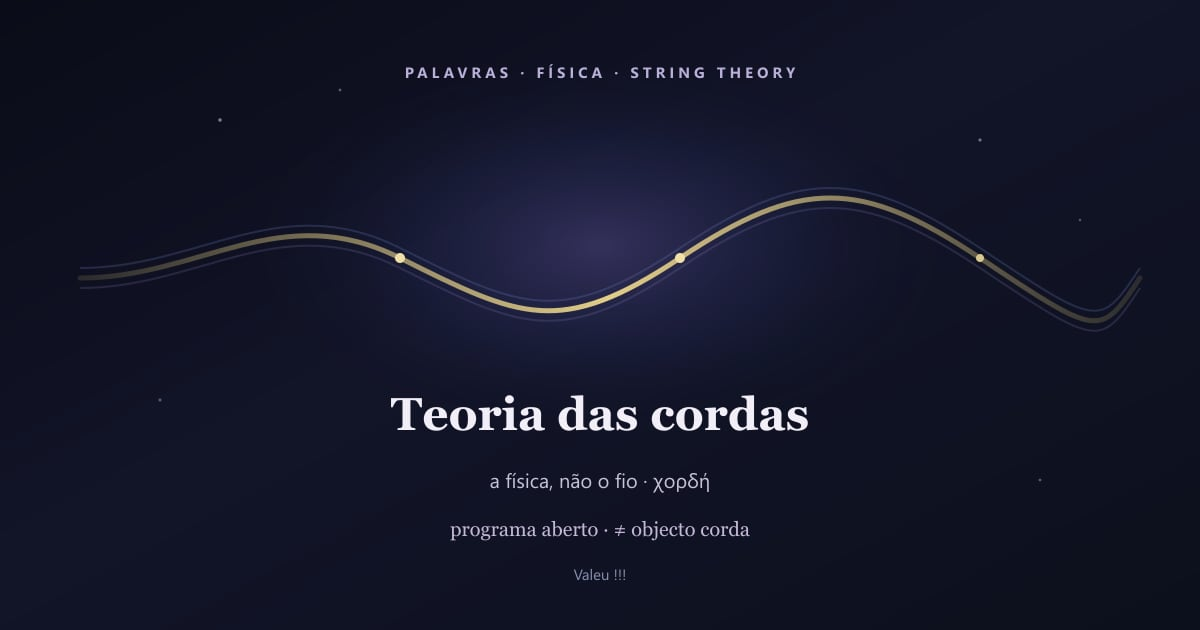
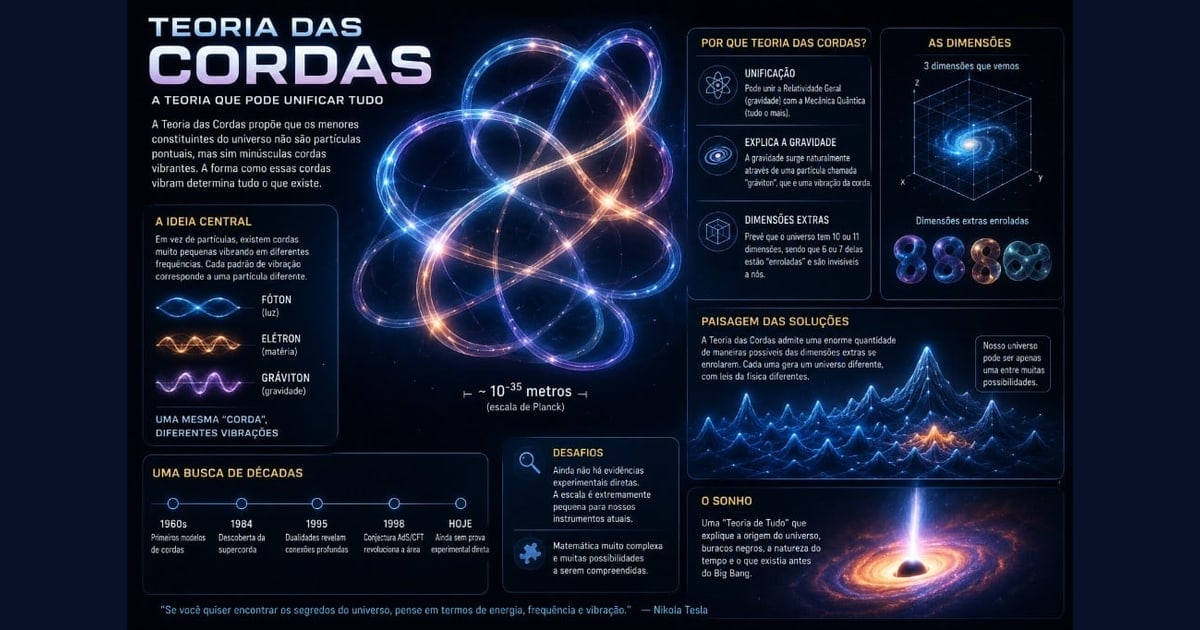
Pôr a infografia na capa da teoria das cordas e destacá-la nos últimos inspecionados.

diff --git a/posts/post-inspecao-palavra-teoria-das-cordas.html b/posts/post-inspecao-palavra-teoria-das-cordas.html
@@ -18,22 +18,21 @@
 <meta name="twitter:description" content="Palavras: «teoria das cordas» — calque de *string theory*; partículas como cordas a vibrar; ≠ objecto corda; programa aberto; Valeu !!!">
 <meta name="twitter:image" content="https://inspetorbudganja.com.br/imagens/inspecoes/teoria-das-cordas-palavra-cover.jpg">
 <link rel="canonical" href="https://inspetorbudganja.com.br/posts/post-inspecao-palavra-teoria-das-cordas.html">
-
+<link rel="icon" href="/imagens/icon-192.v350.png" sizes="192x192" type="image/png">
+<link rel="icon" href="/imagens/favicon-48.v350.png" sizes="48x48" type="image/png">
+<link rel="icon" href="/imagens/favicon-32.v350.png" sizes="32x32" type="image/png">
+<link rel="icon" href="/imagens/favicon-16.v350.png" sizes="16x16" type="image/png">
+<link rel="shortcut icon" href="/favicon.v350.ico" sizes="any">
+<link rel="icon" href="/favicon.v350.svg" type="image/svg+xml">
+<link rel="apple-touch-icon" href="/imagens/apple-touch-icon.v350.png">
+<link rel="manifest" href="/manifest.json">
+<meta name="theme-color" content="#0a2230">
 <meta name="apple-mobile-web-app-capable" content="yes">
 <meta name="apple-mobile-web-app-status-bar-style" content="black-translucent">
 <meta name="apple-mobile-web-app-title" content="BudGanja">
-    <link rel="icon" href="/imagens/favicon-32.v350.png" sizes="32x32" type="image/png">
-    <link rel="icon" href="/imagens/favicon-48.v350.png" sizes="48x48" type="image/png">
-    <link rel="icon" href="/imagens/favicon-16.v350.png" sizes="16x16" type="image/png">
-    <link rel="icon" href="/imagens/icon-192.v350.png" sizes="192x192" type="image/png">
-    <link rel="shortcut icon" href="/favicon.v350.ico" sizes="any">
-    <link rel="icon" href="/favicon.v350.svg" type="image/svg+xml">
-    <link rel="apple-touch-icon" href="/imagens/apple-touch-icon.v350.png">
-    <link rel="manifest" href="/manifest.json?v=350">
-    <meta name="theme-color" content="#0a2230">
-    <link rel="stylesheet" href="/css/style.css?v=350">
+<link rel="stylesheet" href="/css/style.css?v=350">
 <title>Inspeção: Teoria das cordas — a física, não o fio | Inspetor BudGanja</title>
-<script type="application/ld+json">{"@context":"https://schema.org","@type":"Article","headline":"Inspeção: Teoria das cordas — a física, não o fio","description":"Palavras: «teoria das cordas» — calque de *string theory*; partículas como cordas a vibrar; ≠ objecto corda; programa aberto; Valeu !!!","datePublished":"2026-08-22T05:40:00.000Z","image":"https://inspetorbudganja.com.br/imagens/inspecoes/teoria-das-cordas-palavra-cover.jpg","author":{"@type":"Organization","name":"Inspetor BudGanja"}}</script>
+<script type="application/ld+json">{"@context":"https://schema.org","@type":"Article","headline":"Inspeção: Teoria das cordas — a física, não o fio","description":"Palavras: «teoria das cordas» — calque de *string theory*; partículas como cordas a vibrar; ≠ objecto corda; programa aberto; Valeu !!!","datePublished":"2026-08-22T06:00:00.000Z","image":"https://inspetorbudganja.com.br/imagens/inspecoes/teoria-das-cordas-palavra-cover.jpg","author":{"@type":"Organization","name":"Inspetor BudGanja"}}</script>
 </head>
 <body data-page="inspecao" data-post-slug="inspecao-palavra-teoria-das-cordas">
 <div id="site-header"></div>
@@ -58,6 +57,8 @@
 <div class="post-content" data-post-body data-locale="pt-BR" lang="pt-BR"><h2>Escopo</h2>
 <p>Inspeção editorial do sintagma <strong><a href="/posts/post-inspecao-palavra-teoria-das-cordas.html">teoria das cordas</a></strong> — calque português de <em>string theory</em>. É um <strong>programa de investigação</strong> em física teórica: modela o que a física de partículas trata como <strong>pontos</strong> como <strong>cordas unidimensionais a vibrar</strong>. Pedido de campo: <em>teoria das cordas</em> ao lado do objecto <a href="/posts/post-inspecao-palavra-corda.html">corda</a>. O lab <strong>separa</strong>: o fio que se ata no cultivo não é o objecto desta ficha.</p>
 <blockquote><p><strong>Nota metodológica:</strong> auditoria independente. Fontes: <a href="https://pt.wikipedia.org/wiki/Teoria_das_cordas">Wikipédia · Teoria das cordas</a>, <a href="https://en.wikipedia.org/wiki/String_theory">String theory</a>. <strong>Ficha ≠ curso de física, ≠ prova experimental, ≠ manual de amarração.</strong> A metáfora musical (χορδή) é o <strong>nome</strong>; a matemática é o <strong>ofício</strong>. Sem afiliação a institutos nem a divulgação mística. Fecho: <a href="/posts/post-inspecao-palavra-valeu.html">Valeu !!!</a>.</p></blockquote>
+<p><img src="/imagens/inspecoes/teoria-das-cordas-infografico.jpg" alt="Infografia de divulgação — Teoria das cordas" loading="lazy"></p>
+<p><em>Infografia de divulgação (mapa popular). Útil para o <strong>nome</strong> das peças; <strong>não</strong> é prova. A citação de Tesla no rodapé é atribuição popular — o lab já recusou o slogan «tudo é vibração». Sem afiliação ao autor da arte.</em></p>
 <h2>1. Objecto inspecionado</h2>
 <table><thead><tr><th>Campo</th><th>Valor</th></tr></thead><tbody><tr><td>Sintagma</td><td><strong>teoria das cordas</strong></td></tr><tr><td>Classe</td><td>Locução substantiva (física)</td></tr><tr><td>Calque</td><td>EN <em>string theory</em> → PT <em>teoria das cordas</em> / <em>teoria de cordas</em></td></tr><tr><td>Étimo das peças</td><td><em>teoria</em> ← gr. θεωρία <em>theōría</em> «contemplação / inspeção»; <em>corda</em> ← lat. <em>chorda</em> ← gr. χορδή — confiança: <strong>alta</strong> nas peças; o composto é tradução de ofício</td></tr><tr><td>Tipo BudGanja</td><td>Palavra-conceito — física teórica × metáfora musical × ≠ objecto</td></tr><tr><td>Não é</td><td><a href="/posts/post-inspecao-palavra-corda.html">corda</a> (fio) · <a href="/posts/post-inspecao-palavra-no.html">nó</a> (laço) · partitura · dogma</td></tr><tr><td>Elos lab</td><td><a href="/posts/post-inspecao-palavra-tonos.html">tónos</a> · <a href="/posts/post-inspecao-palavra-orfeu.html">orfeu</a> · <a href="/posts/post-inspecao-palavra-pattern.html">pattern</a> · <a href="/posts/post-inspecao-palavra-etimologia.html">etimologia</a> · <a href="/posts/post-inspecao-palavra-verdade.html">verdade</a></td></tr><tr><td>Fonte</td><td><a href="https://pt.wikipedia.org/wiki/Teoria_das_cordas">Teoria das cordas</a></td></tr><tr><td>Data</td><td>2026-08-22</td></tr></tbody></table>
 <p><strong>O que é o objecto:</strong> um <strong>mapa matemático</strong> que tenta ler partículas e gravidade no mesmo vocabulário — a <strong>vibração</strong> de uma corda, não o cabo do <a href="/cultivo/">cultivo</a>.</p>
@@ -71,7 +72,7 @@
 <table><thead><tr><th>Marco</th><th>Leitura</th></tr></thead><tbody><tr><td><strong>1968</strong></td><td>Gabriele Veneziano — amplitude dual (hádrones); ainda não se chamava «teoria das cordas»</td></tr><tr><td><strong>c. 1970</strong></td><td>Nambu, Susskind, Nielsen — a amplitude como <strong>corda</strong> relativista</td></tr><tr><td><strong>1974</strong></td><td>Scherk & Schwarz — a corda também descreve <strong>gravidade</strong> (gravitão)</td></tr><tr><td><strong>1984</strong></td><td>Green & Schwarz — cancelamento de anomalias; 1.ª revolução das supercordas</td></tr><tr><td><strong>1995</strong></td><td>Edward Witten — <strong>M-teoria</strong> (2.ª revolução); as cinco supercordas + 11D</td></tr><tr><td><strong>séc. XXI</strong></td><td>Landscape, AdS/CFT (Maldacena), crítica e defesa públicas — o debate continua</td></tr></tbody></table>
 <p>A <a href="/posts/post-inspecao-palavra-lingua-portuguesa.html">língua portuguesa</a> recebeu o nome pronto: <em>string</em> → <em>corda</em>. O calque é fiel à metáfora, não à prova — ofício de <a href="/posts/post-inspecao-palavra-etimologia.html">etimologia</a>.</p>
 <h2>5. Armadilhas de divulgação</h2>
-<table><thead><tr><th>Slogan</th><th>Correção lab</th></tr></thead><tbody><tr><td>«A teoria das cordas está provada»</td><td><strong>Não.</strong> É investigação activa; falta teste decisivo à nossa escala</td></tr><tr><td>«A teoria das cordas é lixo»</td><td>Também <strong>não</strong> é o veredicto desta ficha — é matemática com objectivo físico, com críticas sérias (testabilidade, landscape)</td></tr><tr><td>«Tudo é vibração, logo é cordas»</td><td>Confunde <strong>metáfora</strong> com <strong>modelo</strong>. <a href="/posts/post-inspecao-palavra-fogo.html">Fogo</a>, <a href="/posts/post-inspecao-palavra-luz.html">luz</a>, <a href="/posts/post-inspecao-palavra-sol.html">sol</a> e <a href="/posts/post-inspecao-palavra-eletrizante.html">eletrizante</a> no lab são ofício, não prova de supercorda</td></tr><tr><td>«Dimensões extra = planos místicos»</td><td>Compactação geométrica ≠ espiritualismo. <a href="/posts/post-inspecao-filme-the-matrix.html">The Matrix</a> é parábola de escolha — <strong>não</strong> compactação de Calabi–Yau</td></tr><tr><td>«É a mesma <a href="/posts/post-inspecao-palavra-corda.html">corda</a> do objecto»</td><td>Homónimos de raiz; <strong>ofícios distintos</strong></td></tr><tr><td>«Teoria dos nós»</td><td>Topologia do <a href="/posts/post-inspecao-palavra-no.html">nó</a> — <strong>outro</strong> mapa</td></tr></tbody></table>
+<table><thead><tr><th>Slogan</th><th>Correção lab</th></tr></thead><tbody><tr><td>«A teoria das cordas está provada»</td><td><strong>Não.</strong> É investigação activa; falta teste decisivo à nossa escala</td></tr><tr><td>«A teoria das cordas é lixo»</td><td>Também <strong>não</strong> é o veredicto desta ficha — é matemática com objectivo físico, com críticas sérias (testabilidade, landscape)</td></tr><tr><td>«Tudo é vibração, logo é cordas»</td><td>Confunde <strong>metáfora</strong> com <strong>modelo</strong>. <a href="/posts/post-inspecao-palavra-fogo.html">Fogo</a>, <a href="/posts/post-inspecao-palavra-luz.html">luz</a>, <a href="/posts/post-inspecao-palavra-sol.html">sol</a> e <a href="/posts/post-inspecao-palavra-eletrizante.html">eletrizante</a> no lab são ofício, não prova de supercorda</td></tr><tr><td>Infografia de divulgação (capa)</td><td>Mapa popular das peças; <strong>não</strong> fecha o caso empírico. Tesla no rodapé ≠ evidência de supercordas</td></tr><tr><td>«Dimensões extra = planos místicos»</td><td>Compactação geométrica ≠ espiritualismo. <a href="/posts/post-inspecao-filme-the-matrix.html">The Matrix</a> é parábola de escolha — <strong>não</strong> compactação de Calabi–Yau</td></tr><tr><td>«É a mesma <a href="/posts/post-inspecao-palavra-corda.html">corda</a> do objecto»</td><td>Homónimos de raiz; <strong>ofícios distintos</strong></td></tr><tr><td>«Teoria dos nós»</td><td>Topologia do <a href="/posts/post-inspecao-palavra-no.html">nó</a> — <strong>outro</strong> mapa</td></tr></tbody></table>
 <p><strong>H-risco:</strong> o <a href="/posts/post-inspecao-palavra-risco.html">risco</a> aqui é <strong>autoridade emprestada</strong> — usar o nome da física para fechar conversa no cultivo, na fé ou no marketing.</p>
 <h2>6. Rede BudGanja (só fichas existentes)</h2>
 <table><thead><tr><th>Ficha</th><th>Relação</th></tr></thead><tbody><tr><td><a href="/posts/post-inspecao-palavra-corda.html">Corda</a></td><td>O <strong>fio</strong> das mãos; irmã lexical, não o objecto teórico</td></tr><tr><td><a href="/posts/post-inspecao-palavra-cinta.html">Cinta</a> · <a href="/posts/post-inspecao-palavra-desatar.html">desatar</a> · <a href="/posts/post-inspecao-palavra-no.html">nó</a></td><td>Cluster do objecto — laço, faixa, soltar; <strong>não</strong> compactação</td></tr><tr><td><a href="/posts/post-inspecao-palavra-tonos.html">Tónos</a></td><td>Grego τόνος — <strong>tensão / tom</strong> da corda; χορδή é o fio, <em>tónos</em> é o aperto que faz soar</td></tr><tr><td><a href="/posts/post-inspecao-palavra-afinar.html">Afinar</a></td><td>O <strong>gesto</strong> na cravelha: apertar a corda musical até o tom — ofício das mãos, não supercorda</td></tr><tr><td><a href="/posts/post-inspecao-palavra-orfeu.html">Orfeu</a></td><td>A <strong>lira</strong> — metáfora musical que a física emprestou; <a href="/radio/">Rádio</a> toca, não prova supercorda</td></tr><tr><td><a href="/posts/post-inspecao-palavra-etimologia.html">Etimologia</a></td><td>O calque <em>string theory</em> → <em>teoria das cordas</em></td></tr><tr><td><a href="/posts/post-inspecao-palavra-polimorfismo.html">Polimorfismo</a></td><td>Analogia: <strong>mesma</strong> corda, <strong>vários</strong> modos/partículas — outro ofício (bio/código)</td></tr><tr><td><a href="/posts/post-inspecao-palavra-pattern.html">Pattern</a></td><td>A teoria <strong>é</strong> um pattern matemático — molde, não dogma</td></tr><tr><td><a href="/posts/post-inspecao-palavra-tempo.html">Tempo</a></td><td>Espaço-tempo; kairós do lab ≠ dimensão compacta</td></tr><tr><td><a href="/posts/post-inspecao-palavra-sol.html">Sol</a> · <a href="/posts/post-inspecao-palavra-luz.html">luz</a> · <a href="/posts/post-inspecao-palavra-fogo.html">fogo</a> · <a href="/posts/post-inspecao-palavra-eletrizante.html">eletrizante</a></td><td>Fenómenos do mundo (fotão, calor, carga); a teoria <strong>pretende</strong> incluí-los — sem slogan</td></tr><tr><td><a href="/posts/post-inspecao-expressao-toda-crianca-nasce-cientista.html">Toda criança nasce cientista</a></td><td>Método: perguntar o que está <strong>testado</strong></td></tr><tr><td><a href="/posts/post-inspecao-canal-manual-do-mundo.html">Manual do Mundo</a></td><td>Divulgação de ciência com ofício — distinto de misticismo de vibração</td></tr><tr><td><a href="/posts/post-inspecao-filme-the-matrix.html">The Matrix</a></td><td>Camadas / escolha no pop — <strong>não</strong> são as 10D da supercorda</td></tr><tr><td><a href="/posts/post-inspecao-palavra-verdade.html">Verdade</a> · <a href="/posts/post-inspecao-palavra-gesto.html">gesto</a></td><td>Distinguir modelo, metáfora e facto</td></tr><tr><td><a href="/posts/post-inspecao-palavra-lingua-portuguesa.html">Língua portuguesa</a> · <a href="/guia/palavras.html">Guia</a></td><td>O calque <em>teoria das cordas</em></td></tr><tr><td><a href="/posts/post-inspecao-palavra-valeu.html">Valeu !!!</a></td><td>Fechar com o mapa certo: nome grande ≠ prova grande</td></tr></tbody></table>
@@ -88,6 +89,8 @@
 <div class="post-content" data-post-body data-locale="en" lang="en" hidden><h2>Scope</h2>
 <p>Inspection of Portuguese <strong>teoria das cordas</strong> — calque of English <em>string theory</em>. A <strong>research program</strong> in theoretical physics: particles as <strong>vibrating one-dimensional strings</strong>, not points. Distinct from the <a href="/posts/post-inspecao-palavra-corda.html">corda</a> object (rope). Close: <a href="/posts/post-inspecao-palavra-valeu.html">Valeu !!!</a>.</p>
 <blockquote><p>Independent audit. Sources: <a href="https://en.wikipedia.org/wiki/String_theory">String theory</a>, <a href="https://pt.wikipedia.org/wiki/Teoria_das_cordas">PT</a>. <strong>Not a physics course, not experimental proof, not a tying manual.</strong> The musical metaphor (χορδή) is the <strong>name</strong>; the math is the <strong>craft</strong>.</p></blockquote>
+<p><img src="/imagens/inspecoes/teoria-das-cordas-infografico.jpg" alt="Divulgation infographic — String theory" loading="lazy"></p>
+<p><em>Divulgation infographic (popular map). Useful for the <strong>names</strong>; <strong>not</strong> proof. The Tesla line in the footer is a popular attribution — not evidence of superstrings.</em></p>
 <h2>1. Object</h2>
 <table><thead><tr><th>Field</th><th>Value</th></tr></thead><tbody><tr><td>Phrase</td><td><strong>teoria das cordas</strong> / <em>string theory</em></td></tr><tr><td>Lab type</td><td>Concept — theoretical physics × musical metaphor × ≠ rope</td></tr><tr><td>Not</td><td><a href="/posts/post-inspecao-palavra-corda.html">corda</a> (rope) · <a href="/posts/post-inspecao-palavra-no.html">nó</a> (knot) · mysticism</td></tr><tr><td>Status</td><td>Active program; <strong>no</strong> unique test at accessible energy</td></tr><tr><td>Date</td><td>2026-08-22</td></tr></tbody></table>
 <p><strong>Craft reading:</strong> a rich <strong>map</strong>, still <strong>open</strong>. Extra dimensions and supersymmetry belong to the formalism — they are not cards in the <a href="/objetos/">Objects</a> catalog.</p>
@@ -97,6 +100,8 @@
 <div class="post-content" data-post-body data-locale="es" lang="es" hidden><h2>Alcance</h2>
 <p>Inspección de <strong>teoria das cordas</strong> — calco de <em>string theory</em>. Un <strong>programa de investigación</strong> en física teórica: partículas como <strong>cuerdas unidimensionales que vibran</strong>, no puntos. Distinta del objeto <a href="/posts/post-inspecao-palavra-corda.html">corda</a> (cuerda). Cierre: <a href="/posts/post-inspecao-palavra-valeu.html">¡Valeu !!!</a>.</p>
 <blockquote><p>Auditoría independiente. Fuentes: <a href="https://pt.wikipedia.org/wiki/Teoria_das_cordas">Teoría de cuerdas</a>, <a href="https://en.wikipedia.org/wiki/String_theory">EN</a>. <strong>No es curso de física ni prueba experimental.</strong> La metáfora musical (χορδή) es el <strong>nombre</strong>; la matemática es el <strong>oficio</strong>.</p></blockquote>
+<p><img src="/imagens/inspecoes/teoria-das-cordas-infografico.jpg" alt="Infografía de divulgación — Teoría de cuerdas" loading="lazy"></p>
+<p><em>Infografía de divulgación (mapa popular). Útil para los <strong>nombres</strong>; <strong>no</strong> es prueba. La cita de Tesla al pie es atribución popular — no evidencia de supercuerdas.</em></p>
 <h2>1. Objeto</h2>
 <table><thead><tr><th>Campo</th><th>Valor</th></tr></thead><tbody><tr><td>Sintagma</td><td><strong>teoria das cordas</strong> / <em>string theory</em></td></tr><tr><td>Tipo lab</td><td>Concepto — física teórica × metáfora musical × ≠ cuerda-objeto</td></tr><tr><td>No es</td><td><a href="/posts/post-inspecao-palavra-corda.html">corda</a> · <a href="/posts/post-inspecao-palavra-no.html">nó</a> · misticismo</td></tr><tr><td>Estado</td><td>Programa activo; <strong>sin</strong> test único a energía accesible</td></tr><tr><td>Fecha</td><td>2026-08-22</td></tr></tbody></table>
 <p><strong>Lectura de oficio:</strong> mapa <strong>rico</strong> y <strong>abierto</strong>. Dimensiones extra y supersimetría son del formalismo — no fichas del catálogo <a href="/objetos/">Objetos</a>.</p>
@@ -107,7 +112,6 @@
 <div id="site-footer"></div>
 <script src="/js/app-version-check.js?v=350"></script>
 <script src="/js/i18n-data.js?v=350"></script>
-    <script src="/js/page-translations-data.js?v=350"></script>
 <script src="/js/i18n.js?v=350"></script>
 <script src="/js/ferramentas-nav-data.js?v=350"></script>
 <script src="/js/layout.js?v=350"></script>

diff --git a/scripts/generate-teoria-das-cordas-cover.js b/scripts/generate-teoria-das-cordas-cover.js
@@ -1,56 +1,61 @@
 'use strict';
 
-/** Capa 1200×630 — teoria das cordas (Palavras). */
+/** Capa 1200×630 + infografia completa — teoria das cordas (Palavras). */
 const fs = require('fs');
 const path = require('path');
 const { ROOT } = require('../lib/paths.js');
 
+const SRC_CANDIDATES = [
+  path.join(ROOT, 'imagens/inspecoes/teoria-das-cordas-infografico.jpg'),
+  path.join(
+    process.env.USERPROFILE || '',
+    '.cursor/projects/c-Users-tiago-Desktop-ProjectBudGanja/assets',
+    'c__Users_tiago_AppData_Roaming_Cursor_User_workspaceStorage_bd30f2c0ab7944756d38bfd6d705cd6e_images_teoriadascordas-6c174c78-51dc-4aec-8f16-01b61609b3f2.jpg'
+  )
+];
+
+function findSrc() {
+  for (const p of SRC_CANDIDATES) {
+    if (fs.existsSync(p)) return p;
+  }
+  throw new Error('Infografia fonte não encontrada');
+}
+
 async function main() {
   const sharp = require('sharp');
-  const OUT = path.join(ROOT, 'imagens/inspecoes/teoria-das-cordas-palavra-cover.jpg');
-  fs.mkdirSync(path.dirname(OUT), { recursive: true });
+  const src = findSrc();
+  const dir = path.join(ROOT, 'imagens/inspecoes');
+  fs.mkdirSync(dir, { recursive: true });
 
-  const bg = Buffer.from(`<svg width="1200" height="630" viewBox="0 0 1200 630" xmlns="http://www.w3.org/2000/svg">
-  <defs>
-    <linearGradient id="g" x1="0" y1="0" x2="1" y2="1">
-      <stop offset="0%" stop-color="#0a0c18"/>
-      <stop offset="45%" stop-color="#121428"/>
-      <stop offset="100%" stop-color="#0c101c"/>
-    </linearGradient>
-    <radialGradient id="glow" cx="50%" cy="42%" r="48%">
-      <stop offset="0%" stop-color="rgba(140,120,220,0.28)"/>
-      <stop offset="50%" stop-color="rgba(80,90,180,0.12)"/>
-      <stop offset="100%" stop-color="rgba(10,12,24,0)"/>
-    </radialGradient>
-    <linearGradient id="str" x1="0" y1="0" x2="1" y2="0">
-      <stop offset="0%" stop-color="rgba(210,190,120,0.15)"/>
-      <stop offset="50%" stop-color="rgba(236,214,140,0.95)"/>
-      <stop offset="100%" stop-color="rgba(210,190,120,0.15)"/>
-    </linearGradient>
-  </defs>
-  <rect width="1200" height="630" fill="url(#g)"/>
-  <ellipse cx="600" cy="280" rx="380" ry="210" fill="url(#glow)"/>
-  <circle cx="220" cy="120" r="1.8" fill="rgba(200,210,240,0.55)"/>
-  <circle cx="340" cy="90" r="1.4" fill="rgba(200,210,240,0.4)"/>
-  <circle cx="980" cy="140" r="1.6" fill="rgba(200,210,240,0.5)"/>
-  <circle cx="1080" cy="220" r="1.3" fill="rgba(200,210,240,0.35)"/>
-  <circle cx="160" cy="400" r="1.5" fill="rgba(200,210,240,0.4)"/>
-  <circle cx="1040" cy="480" r="1.4" fill="rgba(200,210,240,0.4)"/>
-  <path d="M80 268 C200 268, 280 188, 400 248 S560 328, 680 248 S860 168, 980 248 S1100 328, 1140 268" fill="none" stroke="rgba(120,140,210,0.22)" stroke-width="2"/>
-  <path d="M80 288 C200 288, 280 208, 400 268 S560 348, 680 268 S860 188, 980 268 S1100 348, 1140 288" fill="none" stroke="rgba(160,140,220,0.18)" stroke-width="2"/>
-  <path d="M80 278 C200 278, 280 198, 400 258 S560 338, 680 258 S860 178, 980 258 S1100 338, 1140 278" fill="none" stroke="url(#str)" stroke-width="5" stroke-linecap="round"/>
-  <circle cx="400" cy="258" r="5" fill="#f0e0a8"/>
-  <circle cx="680" cy="258" r="5" fill="#f0e0a8"/>
-  <circle cx="980" cy="258" r="4" fill="#d8c890"/>
-  <text x="600" y="78" text-anchor="middle" font-family="Segoe UI, Arial, sans-serif" font-size="15" font-weight="700" fill="#b8b0d8" letter-spacing="4">PALAVRAS · FÍSICA · STRING THEORY</text>
-  <text x="600" y="430" text-anchor="middle" font-family="Georgia, Times New Roman, serif" font-size="46" font-weight="700" fill="#f2eef8">Teoria das cordas</text>
-  <text x="600" y="488" text-anchor="middle" font-family="Segoe UI, Arial, sans-serif" font-size="20" fill="rgba(220,214,236,0.9)">a física, não o fio · χορδή</text>
-  <text x="600" y="536" text-anchor="middle" font-family="Georgia, Times New Roman, serif" font-size="20" fill="#c4b8d8">programa aberto · ≠ objecto corda</text>
-  <text x="600" y="580" text-anchor="middle" font-family="Segoe UI, Arial, sans-serif" font-size="15" fill="#8890b0">Valeu !!!</text>
-</svg>`);
+  const INFO = path.join(dir, 'teoria-das-cordas-infografico.jpg');
+  const COVER = path.join(dir, 'teoria-das-cordas-palavra-cover.jpg');
 
-  await sharp(bg).jpeg({ quality: 84, mozjpeg: true }).toFile(OUT);
-  console.log('OK', path.relative(ROOT, OUT), Math.round(fs.statSync(OUT).size / 1024) + 'KB');
+  await sharp(src)
+    .rotate()
+    .resize({ width: 1600, withoutEnlargement: true })
+    .jpeg({ quality: 84, mozjpeg: true })
+    .toFile(INFO + '.tmp');
+  fs.renameSync(INFO + '.tmp', INFO);
+
+  const meta = await sharp(INFO).metadata();
+  const bg = { r: 7, g: 18, b: 40, alpha: 1 };
+  await sharp({
+    create: { width: 1200, height: 630, channels: 3, background: bg }
+  })
+    .composite([
+      {
+        input: await sharp(INFO)
+          .resize({ width: 1200, height: 630, fit: 'contain', background: bg })
+          .jpeg({ quality: 86, mozjpeg: true })
+          .toBuffer()
+      }
+    ])
+    .jpeg({ quality: 86, mozjpeg: true })
+    .toFile(COVER);
+
+  const kb = (p) => Math.round(fs.statSync(p).size / 1024) + 'KB';
+  console.log('OK infografico', path.relative(ROOT, INFO), kb(INFO), `${meta.width}×${meta.height}`);
+  console.log('OK cover', path.relative(ROOT, COVER), kb(COVER));
 }
 
 main().catch((e) => {

diff --git a/lib/teoria-das-cordas-inspecao-post.js b/lib/teoria-das-cordas-inspecao-post.js
@@ -11,6 +11,7 @@ const path = require('path');
 const { palavraPost: makePalavra } = require('./palavras-inspecoes-posts.js');
 
 const COVER = '/imagens/inspecoes/teoria-das-cordas-palavra-cover.jpg';
+const INFOGRAFICO = '/imagens/inspecoes/teoria-das-cordas-infografico.jpg';
 const WIKI = 'https://pt.wikipedia.org/wiki/Teoria_das_cordas';
 const WIKI_EN = 'https://en.wikipedia.org/wiki/String_theory';
 
@@ -63,6 +64,10 @@ function buildTeoriaDasCordasBodies() {
 Inspeção editorial do sintagma **[teoria das cordas](${self})** — calque português de *string theory*. É um **programa de investigação** em física teórica: modela o que a física de partículas trata como **pontos** como **cordas unidimensionais a vibrar**. Pedido de campo: *teoria das cordas* ao lado do objecto [corda](${corda}). O lab **separa**: o fio que se ata no cultivo não é o objecto desta ficha.
 
 > **Nota metodológica:** auditoria independente. Fontes: [Wikipédia · Teoria das cordas](${WIKI}), [String theory](${WIKI_EN}). **Ficha ≠ curso de física, ≠ prova experimental, ≠ manual de amarração.** A metáfora musical (χορδή) é o **nome**; a matemática é o **ofício**. Sem afiliação a institutos nem a divulgação mística. Fecho: [Valeu !!!](${mantra}).
+
+![Infografia de divulgação — Teoria das cordas](${INFOGRAFICO})
+
+*Infografia de divulgação (mapa popular). Útil para o **nome** das peças; **não** é prova. A citação de Tesla no rodapé é atribuição popular — o lab já recusou o slogan «tudo é vibração». Sem afiliação ao autor da arte.*
 
 ## 1. Objecto inspecionado
 
@@ -126,6 +131,7 @@ A [língua portuguesa](${lingua}) recebeu o nome pronto: *string* → *corda*. O
 | «A teoria das cordas está provada» | **Não.** É investigação activa; falta teste decisivo à nossa escala |
 | «A teoria das cordas é lixo» | Também **não** é o veredicto desta ficha — é matemática com objectivo físico, com críticas sérias (testabilidade, landscape) |
 | «Tudo é vibração, logo é cordas» | Confunde **metáfora** com **modelo**. [Fogo](${fogo}), [luz](${luz}), [sol](${sol}) e [eletrizante](${eletrizante}) no lab são ofício, não prova de supercorda |
+| Infografia de divulgação (capa) | Mapa popular das peças; **não** fecha o caso empírico. Tesla no rodapé ≠ evidência de supercordas |
 | «Dimensões extra = planos místicos» | Compactação geométrica ≠ espiritualismo. [The Matrix](${matrix}) é parábola de escolha — **não** compactação de Calabi–Yau |
 | «É a mesma [corda](${corda}) do objecto» | Homónimos de raiz; **ofícios distintos** |
 | «Teoria dos nós» | Topologia do [nó](${no}) — **outro** mapa |
@@ -192,6 +198,10 @@ Inspection of Portuguese **teoria das cordas** — calque of English *string the
 
 > Independent audit. Sources: [String theory](${WIKI_EN}), [PT](${WIKI}). **Not a physics course, not experimental proof, not a tying manual.** The musical metaphor (χορδή) is the **name**; the math is the **craft**.
 
+![Divulgation infographic — String theory](${INFOGRAFICO})
+
+*Divulgation infographic (popular map). Useful for the **names**; **not** proof. The Tesla line in the footer is a popular attribution — not evidence of superstrings.*
+
 ## 1. Object
 
 | Field | Value |
@@ -216,6 +226,10 @@ Inspection of Portuguese **teoria das cordas** — calque of English *string the
 Inspección de **teoria das cordas** — calco de *string theory*. Un **programa de investigación** en física teórica: partículas como **cuerdas unidimensionales que vibran**, no puntos. Distinta del objeto [corda](${corda}) (cuerda). Cierre: [¡Valeu !!!](${mantra}).
 
 > Auditoría independiente. Fuentes: [Teoría de cuerdas](${WIKI}), [EN](${WIKI_EN}). **No es curso de física ni prueba experimental.** La metáfora musical (χορδή) es el **nombre**; la matemática es el **oficio**.
+
+![Infografía de divulgación — Teoría de cuerdas](${INFOGRAFICO})
+
+*Infografía de divulgación (mapa popular). Útil para los **nombres**; **no** es prueba. La cita de Tesla al pie es atribución popular — no evidencia de supercuerdas.*
 
 ## 1. Objeto
 
@@ -255,7 +269,7 @@ function buildTeoriaDasCordasPost(seriesOrder) {
     excerptEs:
       'Palabras: «teoria das cordas» — calco de *string theory*; partículas como cuerdas que vibran; ≠ objeto cuerda; programa abierto; ¡Valeu !!!',
     slug: 'inspecao-palavra-teoria-das-cordas',
-    date: '2026-08-22T05:40:00.000Z',
+    date: '2026-08-22T06:00:00.000Z',
     seriesOrder: order,
     seriesLabel: 'Teoria das cordas · palavra',
     coverImage: COVER,

diff --git a/lib/merge-guia-inspecoes.js b/lib/merge-guia-inspecoes.js
@@ -48,12 +48,20 @@ function isRemovedInspecao(post) {
   return false;
 }
 
-const HOME_PINNED_INSPECAO_SLUG = 'inspecao-arte-bom-dia-inverno';
+const HOME_PINNED_INSPECAO_SLUGS = [
+  'inspecao-palavra-teoria-das-cordas',
+  'inspecao-arte-bom-dia-inverno'
+];
+
+function inspecaoPinRank(slug) {
+  const i = HOME_PINNED_INSPECAO_SLUGS.indexOf(slug);
+  return i === -1 ? 99 : i;
+}
 
 function sortPublicPosts(list) {
   return list.slice().sort((a, b) => {
-    const aPin = a && a.slug === HOME_PINNED_INSPECAO_SLUG ? 0 : 1;
-    const bPin = b && b.slug === HOME_PINNED_INSPECAO_SLUG ? 0 : 1;
+    const aPin = inspecaoPinRank(a && a.slug);
+    const bPin = inspecaoPinRank(b && b.slug);
     if (aPin !== bPin) return aPin - bPin;
     const soA = a.seriesOrder != null ? Number(a.seriesOrder) : 999;
     const soB = b.seriesOrder != null ? Number(b.seriesOrder) : 999;
@@ -115,6 +123,7 @@ function mergeGuiaInspecoesPosts(posts) {
 module.exports = {
   mergeGuiaInspecoesPosts,
   sortPublicPosts,
+  HOME_PINNED_INSPECAO_SLUGS,
   getBuiltinInspecoesPosts,
   REMOVED_INSPECAO_SLUGS,
   REMOVED_INSPECAO_SERIES,

diff --git a/scripts/test-lib-unit.js b/scripts/test-lib-unit.js
@@ -79,6 +79,19 @@ assert('merge mantém MovReCam', merged.some((p) => p.slug === 'inspecao-canal-m
 assert('merge não duplica slugs', merged.length === new Set(merged.map((p) => p.slug)).size);
 
 const inspecoes = sortPublicPosts(merged.filter((p) => p.category === 'inspecao'));
+const pinnedOrder = sortPublicPosts([
+  { slug: 'inspecao-canal-movrecam', category: 'inspecao', seriesOrder: 1, date: '2026-01-01' },
+  { slug: 'inspecao-arte-bom-dia-inverno', category: 'inspecao', seriesOrder: 2, date: '2026-01-02' },
+  { slug: 'inspecao-palavra-teoria-das-cordas', category: 'inspecao', seriesOrder: 182, date: '2026-08-22' }
+]);
+assert(
+  'pin teoria das cordas à frente',
+  pinnedOrder[0] && pinnedOrder[0].slug === 'inspecao-palavra-teoria-das-cordas'
+);
+assert(
+  'pin Bom dia, Inverno em segundo',
+  pinnedOrder[1] && pinnedOrder[1].slug === 'inspecao-arte-bom-dia-inverno'
+);
 const movrecam = inspecoes.find((p) => p.slug === 'inspecao-canal-movrecam');
 assert('MovReCam seriesOrder 11', movrecam && movrecam.seriesOrder === 11);
 

diff --git a/js/home.js b/js/home.js
@@ -44,12 +44,16 @@ function formatDateCompact(iso) {
   }
 }
 
-var HOME_PINNED_SLUGS = ['inspecao-arte-bom-dia-inverno', 'inspecao-canal-paulinho'];
+var HOME_PINNED_SLUGS = [
+  'inspecao-palavra-teoria-das-cordas',
+  'inspecao-arte-bom-dia-inverno',
+  'inspecao-canal-paulinho'
+];
 
 /**
  * Últimas do laboratório: ordena por data, mas garante diversidade de categorias
  * (ex.: uma pesquisa não fica enterrada sob várias inspeções do mesmo dia).
- * Divulgações (Bom dia, Inverno e Paulinho) ficam sempre no início.
+ * Destaques (teoria das cordas, Bom dia, Inverno e Paulinho) ficam no início.
  */
 function pickHomeLatestPosts(posts, limit) {
   const max = Math.max(1, Number(limit) || 4);
